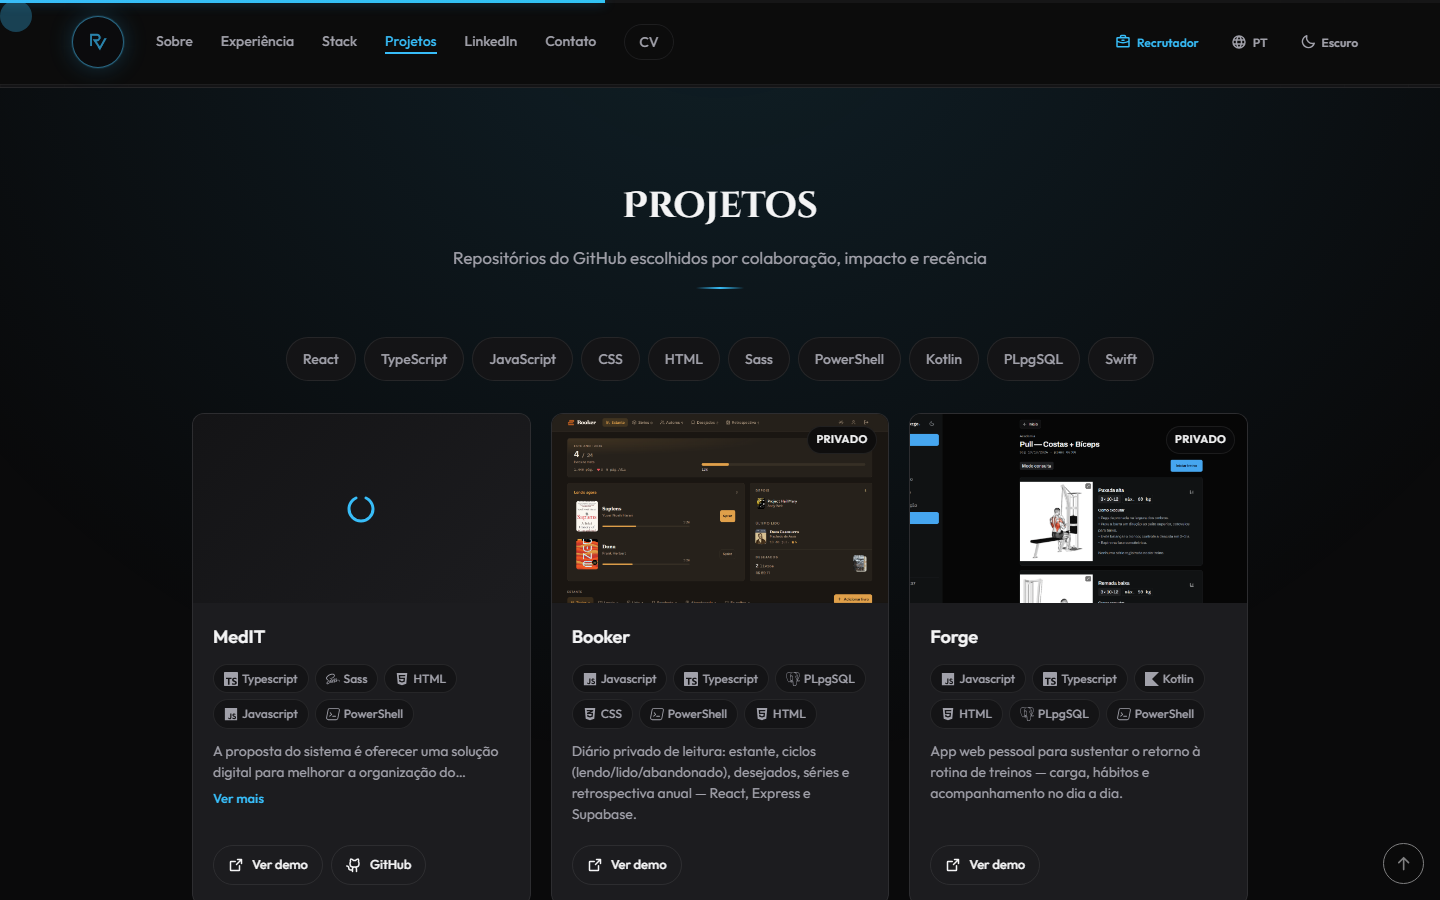
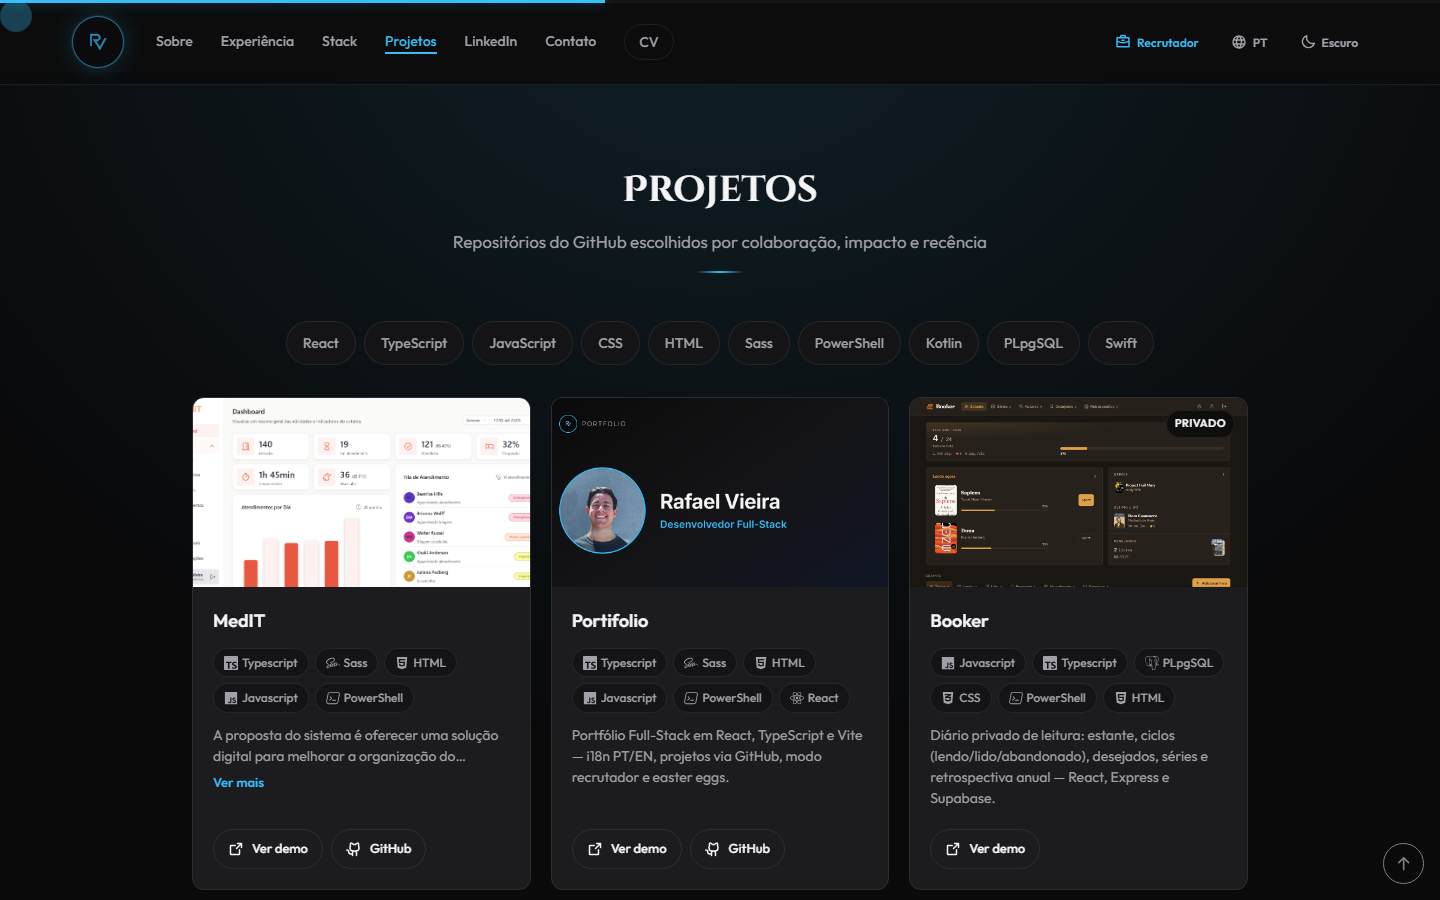
Add RV lockup to README header and recapture project screens without loading media.

diff --git a/README.md b/README.md
@@ -1,5 +1,8 @@
 <p align="center">
-  <strong>Portfólio · Rafael Vieira</strong>
+  <picture>
+    <source media="(prefers-color-scheme: dark)" srcset="assets/logos/logo-lockup.png">
+    <img src="assets/logos/logo-lockup-light.png" alt="Rafael Vieira" width="120">
+  </picture>
 </p>
 
 <p align="center">

diff --git a/README.en.md b/README.en.md
@@ -1,5 +1,8 @@
 <p align="center">
-  <strong>Portfolio · Rafael Vieira</strong>
+  <picture>
+    <source media="(prefers-color-scheme: dark)" srcset="assets/logos/logo-lockup.png">
+    <img src="assets/logos/logo-lockup-light.png" alt="Rafael Vieira" width="120">
+  </picture>
 </p>
 
 <p align="center">
